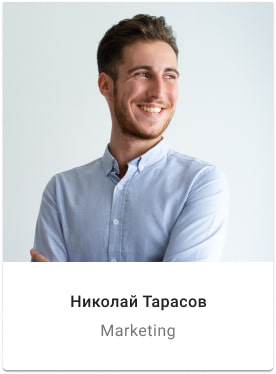
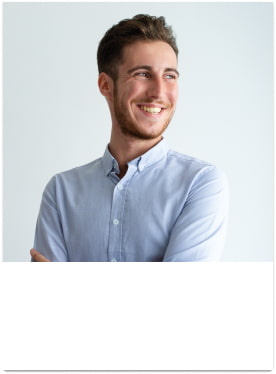
Fix some unvisible bloks and address

Changed region(s): [[0.2319, 0.7647, 0.7536, 0.9118]]

diff --git a/index.html b/index.html
@@ -28,10 +28,11 @@
     <main>
         <section>
             <h1>Еффективные решения для вашего бизнеса</h1>
-            <img src="./images/herobg.png" alt="Фоновый рисунок" width="1600" height="600"/>
+            <div></div>
             <button type="button">Заказать услугу</button>
         </section>
         <section>
+            <h2>Особенности</h2>
             <ul>
                 <li>
                     <h3>Внимание к деталям</h3> 
@@ -61,22 +62,46 @@
         </section>
         <section>
             <h2>Наша команда</h2>
-            <img src="./images/sectionbg.png" alt="Фоновый рисунок" width="1600" height="648"/>
+            <div></div>
             <ul>
-                <li><img src="./images/teamcardone.jpg" alt="Игорь Демьяненко" width="270" /></li>
-                <li><img src="./images/teamcardtwo.jpg" alt="Ольга Репина" width="270" /></li>
-                <li><img src="./images/teamcardtree.jpg" alt="Николай Тарасов" width="270" /></li>
-                <li><img src="./images/teamcardfour.jpg" alt="Михаил Ермаков" width="270" /></li>
+                <li>
+                    <h3>Игорь Демьяненко</h3>
+                    <p lang="en" >Product Designer</p>
+                    <img src="./images/teamcardone.jpg" alt="Игорь Демьяненко" width="270" />
+                </li>
+                <li>
+                    <h3>Ольга Репина</h3>
+                    <p lang="en">Frontend Developer</p><img src="./images/teamcardtwo.jpg" alt="Ольга Репина" width="270" />
+                </li>
+                <li>
+                    <h3>Николай Тарасов</h3>
+                    <p lang="en">Marketing</p>
+                    <img src="./images/teamcardtree.jpg" alt="Николай Тарасов" width="270" />
+                </li>
+                <li>
+                    <h3>Михаил Ермаков</h3>
+                    <p lang="en">UI Designer</p>
+                    <img src="./images/teamcardfour.jpg" alt="Михаил Ермаков" width="270" />
+                </li>
             </ul>
         </section>
     </main>
     <footer>
-        <img src="./images/footerbg.png" alt="Фоновый рисунок" width="1600" height="252"/>
+        <div></div>   
         <a href="/" lang="en">WebStudio</a>
         <address>
-            г.Киев, пр-т Леси Украинки, 26 <br />
-            info@devstudio.com <br />
-            +38 096 111 11 11
+            <ul>
+                <li>
+                    <a href="/">г.Киев, пр-т Леси Украинки, 26</a>
+                </li>
+                <li>
+                    <a href="mailto:info@devstudio.com">info@devstudio.com </a>
+                </li>
+                <li>
+                    <a href="tel:+380961111111"> +38 096 111 11 11 </a>
+                </li>
+            </ul>
+            
         </address>
     </footer>     
 </body>
